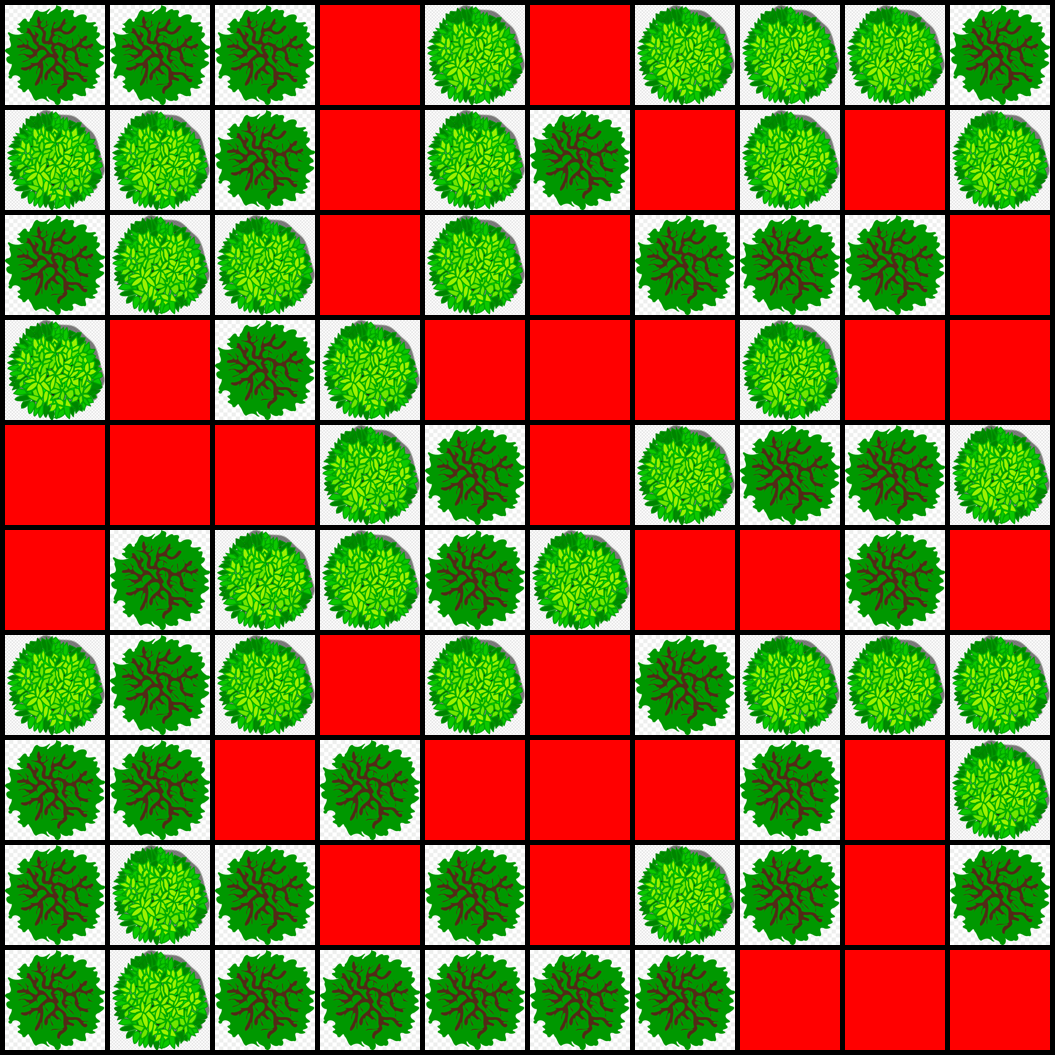
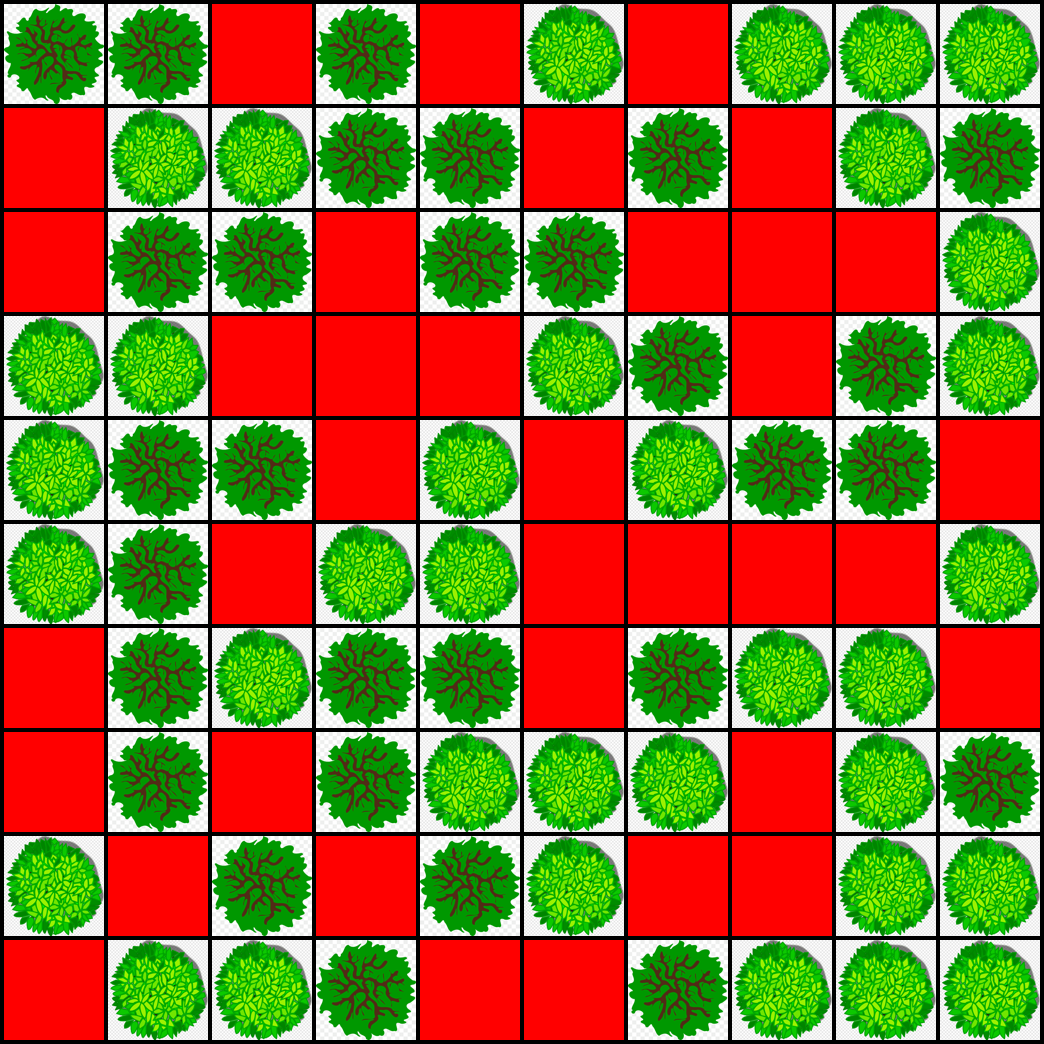
add change after generation

diff --git a/uifiles/Ui_generator_window.py b/uifiles/Ui_generator_window.py
@@ -1,0 +1,189 @@
+import os
+from PyQt5 import QtCore, QtGui
+from PyQt5.QtGui import QPixmap
+from PyQt5.QtWidgets import (QWidget, QVBoxLayout, QFormLayout, QPushButton, QLabel, QGridLayout, QCheckBox,
+                             QMessageBox, QButtonGroup, QMainWindow)
+from random import randint
+from generator import generate_map, open_cells
+
+
+class Change_picture(QWidget):
+    def __init__(self, new_value):
+        super().__init__()
+        self.setWindowTitle("Изменить клетку")
+        self.new_value = new_value
+        self.group = QButtonGroup()
+        outerLayout = QVBoxLayout()
+        topLayout = QFormLayout()
+        font = QtGui.QFont()
+        font.setPointSize(15)
+        font = QtGui.QFont()
+        font.setPointSize(14)
+        self.body = QGridLayout()
+        font = QtGui.QFont()
+        font.setPointSize(10)
+        self.generate_body()
+        outerLayout.addLayout(topLayout)
+        outerLayout.addLayout(self.body)
+        self.setLayout(outerLayout)
+        self.group.idClicked.connect(self.save)
+
+    def save(self, id):
+        self.new_value = id
+        DB_DIR = os.getenv('CELLS_URL')
+        for ind, file_name in enumerate(os.listdir(DB_DIR)):
+            if (ind == id):
+                pixmap = QPixmap(f"{DB_DIR}/{file_name}")
+                pixmap = pixmap.scaled(100, 100)
+                self.new_value = pixmap
+        self.close()
+        print("!!!")
+
+    def generate_body(self):
+        DB_DIR = os.getenv('CELLS_URL')
+        for ind, file_name in enumerate(os.listdir(DB_DIR)):
+            self.body.setRowStretch(ind, 110)
+            pixmap = QPixmap(f"{DB_DIR}/{file_name}")
+            pixmap = pixmap.scaled(100, 100)
+            label = QLabel()
+            button_save = QPushButton(self)
+            label.setPixmap(pixmap)
+            label.resize(pixmap.width(), pixmap.height())
+            font = QtGui.QFont()
+            font.setPointSize(14)
+            button_save.setFont(font)
+            button_save.setText("Выбрать клетку")
+            self.group.addButton(button_save, ind)
+            self.body.addWidget(label, ind, 0)
+            self.body.addWidget(button_save, ind, 1)
+
+
+class MyLabel(QLabel):
+    clicked = QtCore.pyqtSignal()  # новый сигнал под клик
+
+    def __init__(self, *args):
+        QLabel.__init__(self, *args)
+
+    # обработчик мыши
+    def mousePressEvent(self, QMouseEvent):
+        self.clicked.emit()  # вызывает сигнал
+        QLabel.mousePressEvent(self, QMouseEvent)
+
+
+class Ui_generator_window(QWidget):
+    def __init__(self, n, m, size):
+        super().__init__()
+        self.n = n
+        self.m = m
+        self.size = size
+        self.pixmaps = []
+        self.choices = []
+        self.setWindowTitle("Выбор клеток")
+        self.DB_DIR = os.getenv('CELLS_URL')
+        self.file_names = os.listdir(self.DB_DIR)
+        outerLayout = QVBoxLayout()
+        topLayout = QFormLayout()
+        label = QLabel(self)
+        label.setGeometry(QtCore.QRect(150, 10, 221, 71))
+        font = QtGui.QFont()
+        font.setPointSize(15)
+        label.setFont(font)
+        label.setObjectName("label")
+        pushButton = QPushButton(self)
+        pushButton.setGeometry(QtCore.QRect(20, 32, 101, 31))
+        font = QtGui.QFont()
+        font.setPointSize(14)
+        pushButton.setFont(font)
+        pushButton.setObjectName("pushButton")
+        pushButton.clicked.connect(self.save)
+        label.setText("Выберите клетки")
+        pushButton.setText("Сохранить")
+        topLayout.addRow(label, pushButton)
+        self.body = QGridLayout()
+        font = QtGui.QFont()
+        font.setPointSize(10)
+        self.generate_body()
+        outerLayout.addLayout(topLayout)
+        outerLayout.addLayout(self.body)
+        self.setLayout(outerLayout)
+        self.smap.mapped.connect(self.on_click)
+
+    def integer_map(self):
+        for name in self.file_names:
+            self.pixmaps.append(QPixmap(f"{self.DB_DIR}/{name}"))
+            self.pixmaps[-1] = self.pixmaps[-1].scaled(100, 100)
+
+        self.choices = [[randint(0, len(self.file_names) - 1) for _ in range(self.m)] for j in range(self.n)]
+
+    def save(self):
+        DIR_SAVE = os.getenv('SAVE_RESULT')
+        cells = open_cells(self.DB_DIR, self.size)
+        map_for_gen = [[0 for _ in range(self.n)] for i in range(self.m)]
+        for i in range(self.n):
+            for j in range(self.m):
+                map_for_gen[j][i] = self.choices[i][j]
+        map = generate_map(self.n, self.m, self.size, cells, map_for_gen)
+        map.save(DIR_SAVE)
+        self.image_window = Image_window()
+        self.image_window.load_image(DIR_SAVE)
+        self.image_window.show()
+        save_data = []
+        # SAVE_CONFIG = os.getenv('SAVE_CONFIG')
+        # for i in range(self.body.rowCount()):
+        #     now = self.body.itemAtPosition(i, 0).widget()
+        #     save_data.append(str(now.checkState()))
+        # with open(SAVE_CONFIG, 'w') as file:
+        #     file.write(" ".join(save_data))
+        self.close()
+
+    def generate_body(self):
+        self.integer_map()
+        self.smap = QtCore.QSignalMapper(self)
+        index = 0
+        for i in range(self.n):
+            for j in range(self.m):
+                self.body.setRowStretch(i, 110)
+                pixmap = self.pixmaps[self.choices[i][j]]
+                pixmap = pixmap.scaled(100, 100)
+                label = MyLabel()
+                label.setPixmap(pixmap)
+                label.resize(pixmap.width(), pixmap.height())
+                font = QtGui.QFont()
+                font.setPointSize(10)
+                label.setObjectName(f"{i}, {j}")
+                self.body.addWidget(label, i, j)
+                label.clicked.connect(self.smap.map)  # соеденить
+                self.smap.setMapping(label, index)  # задать индекс
+                index += 1
+
+    @QtCore.pyqtSlot(int)
+    def on_click(self, index):
+        ind_x = index // self.m
+        ind_y = index % self.m
+        self.choices[ind_x][ind_y] = (1 + self.choices[ind_x][ind_y]) % len(self.file_names)
+        label = MyLabel()
+        label.setPixmap(self.pixmaps[self.choices[ind_x][ind_y]])
+        dells = self.body.itemAtPosition(ind_x, ind_y)
+        label.clicked.connect(self.smap.map)  # соеденить
+        self.smap.setMapping(label, index)  # задать индекс
+        dells.widget().deleteLater()
+        self.body.addWidget(label, ind_x, ind_y)
+        # self.change_box = Change_picture(new_label)
+        # self.change_box.show()
+        # print(new_label)
+        return index
+class Image_window(QMainWindow):
+    def __init__(self):
+        super().__init__()
+
+        self.setWindowTitle('Тест')
+        self.setGeometry(200, 200, 300, 300)
+
+    def load_image(self, file_name):
+        pixmap = QPixmap(file_name)
+
+        self.label = QLabel(self)
+        self.label.setPixmap(pixmap)
+        self.label.resize(pixmap.width(), pixmap.height())
+
+        self.resize(pixmap.width(), pixmap.height())

diff --git a/uifiles/UiMapGen.py b/uifiles/UiMapGen.py
@@ -6,13 +6,13 @@ from PyQt5.QtGui import QPixmap
 from PyQt5.QtWidgets import (QFrame, QMainWindow, QWidget, QPushButton, QMenuBar, QStatusBar,
                              QFileDialog, QLabel, QLineEdit)
 
-from generator import generate_map, open_cells
 from uifiles.UiSelectionWindow import Ui_selection_window
-
+from uifiles.Ui_generator_window import Ui_generator_window
 
 class Ui_Mapgenerator(QMainWindow):
-    def __init__(self):
+    def __init__(self, return_back):
         super(Ui_Mapgenerator, self).__init__()
+        self.return_back = return_back
         self.setObjectName("MainWindow")
         self.resize(825, 345)
         self.centralwidget = QWidget(self)
@@ -114,8 +114,7 @@ class Ui_Mapgenerator(QMainWindow):
 
     def to_main(self):
         self.close()
-        self.window_gen = Ui_MainWindow()
-        self.window_gen.show()
+        self.return_back()
 
     def to_choice(self):
         self.window_choice = Ui_selection_window()
@@ -125,14 +124,16 @@ class Ui_Mapgenerator(QMainWindow):
         n = int(self.lineEdit.text())
         m = int(self.lineEdit_2.text())
         size = int(self.lineEdit_3.text())
-        DIR = os.getenv('CELLS_URL')
-        DIR_SAVE = os.getenv('SAVE_RESULT')
-        cells = open_cells(DIR, size)
-        map = generate_map(n, m, size, cells)
-        map.save(DIR_SAVE)
-        self.image_window = Image_window()
-        self.image_window.load_image(DIR_SAVE)
-        self.image_window.show()
+        self.gennerator = Ui_generator_window(n, m, size)
+        self.gennerator.show()
+        # DIR = os.getenv('CELLS_URL')
+        # DIR_SAVE = os.getenv('SAVE_RESULT')
+        # cells = open_cells(DIR, size)
+        # map = generate_map(n, m, size, cells)
+        # map.save(DIR_SAVE)
+        # self.image_window = Image_window()
+        # self.image_window.load_image(DIR_SAVE)
+        # self.image_window.show()
 
     def openFileNameDialog(self):
         options = QFileDialog.Options()
@@ -167,18 +168,4 @@ class Ui_Mapgenerator(QMainWindow):
         self.load_cell.setText(_translate("MainWindow", "загрузить клетку (.png)"))
         self.back.setText(_translate("MainWindow", "Вернуться на главную"))
 
-class Image_window(QMainWindow):
-    def __init__(self):
-        super().__init__()
 
-        self.setWindowTitle('Тест')
-        self.setGeometry(200, 200, 300, 300)
-
-    def load_image(self, file_name):
-        pixmap = QPixmap(file_name)
-
-        self.label = QLabel(self)
-        self.label.setPixmap(pixmap)
-        self.label.resize(pixmap.width(), pixmap.height())
-
-        self.resize(pixmap.width(), pixmap.height())

diff --git a/generator.py b/generator.py
@@ -7,13 +7,13 @@ from PIL import ImageDraw
 
 def open_cells(CELLSDIR, size):
     vars_of_ceil = []
-    SAVE_CONFIG = os.getenv('SAVE_CONFIG')
+    # SAVE_CONFIG = os.getenv('SAVE_CONFIG')
     is_use = [True for i in range(100)]
-    with open(SAVE_CONFIG, 'r') as file:
-        is_use = list(map(int, file.read().split()))
+    # with open(SAVE_CONFIG, 'r') as file:
+    #     is_use = list(map(int, file.read().split()))
     for ind, el in enumerate(os.listdir(CELLSDIR)):
-        if not is_use[ind]:
-            continue
+        # if not is_use[ind]:
+        #     continue
         img = Image.open(f'{CELLSDIR}/{el}')
         img = img.convert("RGB")
         img = img.resize((size, size))
@@ -23,11 +23,10 @@ def open_cells(CELLSDIR, size):
     return vars_of_ceil
 
 
-def generate_map(n, m, size_ceil, vars_of_ceil):
+def generate_map(m, n, size_ceil, vars_of_ceil, chosen_var):
     # n - height
     # m - weight
-    SZLINE = 5
-    map = [[randint(0, len(vars_of_ceil) - 1) for _ in range(m)] for j in range(n)]
+    SZLINE = 4
     img = Image.new('RGB', (n * size_ceil + (n + 1) * SZLINE,
                             m * size_ceil + (m + 1) * SZLINE))  # widgth,height
     width = img.size[0]
@@ -37,7 +36,7 @@ def generate_map(n, m, size_ceil, vars_of_ceil):
     draw = ImageDraw.Draw(img)
     for i in range(n):
         for j in range(m):
-            now_ceil = map[i][j]
+            now_ceil = chosen_var[i][j]
             add_x = SZLINE * (i + 1)
             add_y = SZLINE * (j + 1)
             for x in range(size_ceil * i, size_ceil * (i + 1)):
@@ -49,7 +48,10 @@ def generate_map(n, m, size_ceil, vars_of_ceil):
 
 
 if __name__ == "__main__":
-    img = generate_map(20, 20, 200, open_cells('ceils'))
+    n = 20
+    m = 20
+    chosen_var = [[randint(0, 3) for _ in range(m)] for j in range(n)]
+    img = generate_map(n, m, 200, open_cells('ceils'), chosen_var)
     img.save('compose.png')
 
 # generate_map(5, 5, 30, [0])

diff --git a/uifiles/UIMainwindow.py b/uifiles/UIMainwindow.py
@@ -6,9 +6,8 @@ from PyQt5.QtWidgets import (QMainWindow, QWidget, QPushButton, QMenuBar, QStatu
 from dotenv import load_dotenv
 
 from uifiles.UiMapGen import Ui_Mapgenerator
-from uifiles.UIMainwindow import Ui_Main_Window
 
-"""
+
 class Ui_Main_Window(QMainWindow):
     def __init__(self):
         super(Ui_Main_Window, self).__init__()
@@ -61,10 +60,9 @@ class Ui_Main_Window(QMainWindow):
         self.to_generate.clicked.connect(self.open_generate)
 
     def open_generate(self):
-        self.close()
-        self.window_gen = Ui_Mapgenerator()
+        self.hide()
+        self.window_gen = Ui_Mapgenerator(self.show)
         self.window_gen.show()
-"""
 
 def main():
     app = QApplication(sys.argv)

diff --git a/uifiles/UiSelectionWindow.py b/uifiles/UiSelectionWindow.py
@@ -10,7 +10,6 @@ class Ui_selection_window(QWidget):
         self.setWindowTitle("Выбор клеток")
         outerLayout = QVBoxLayout()
         topLayout = QFormLayout()
-        # self.resize(400, 300)
         label = QLabel(self)
         label.setGeometry(QtCore.QRect(150, 10, 221, 71))
         font = QtGui.QFont()
@@ -48,7 +47,6 @@ class Ui_selection_window(QWidget):
     def generate_body(self):
         DB_DIR = os.getenv('CELLS_URL')
         SAVE_CONFIG = os.getenv('SAVE_CONFIG')
-        save_values = []
         try:
             with open(SAVE_CONFIG, 'r') as file:
                 save_values = list(map(int, file.read().split()))
